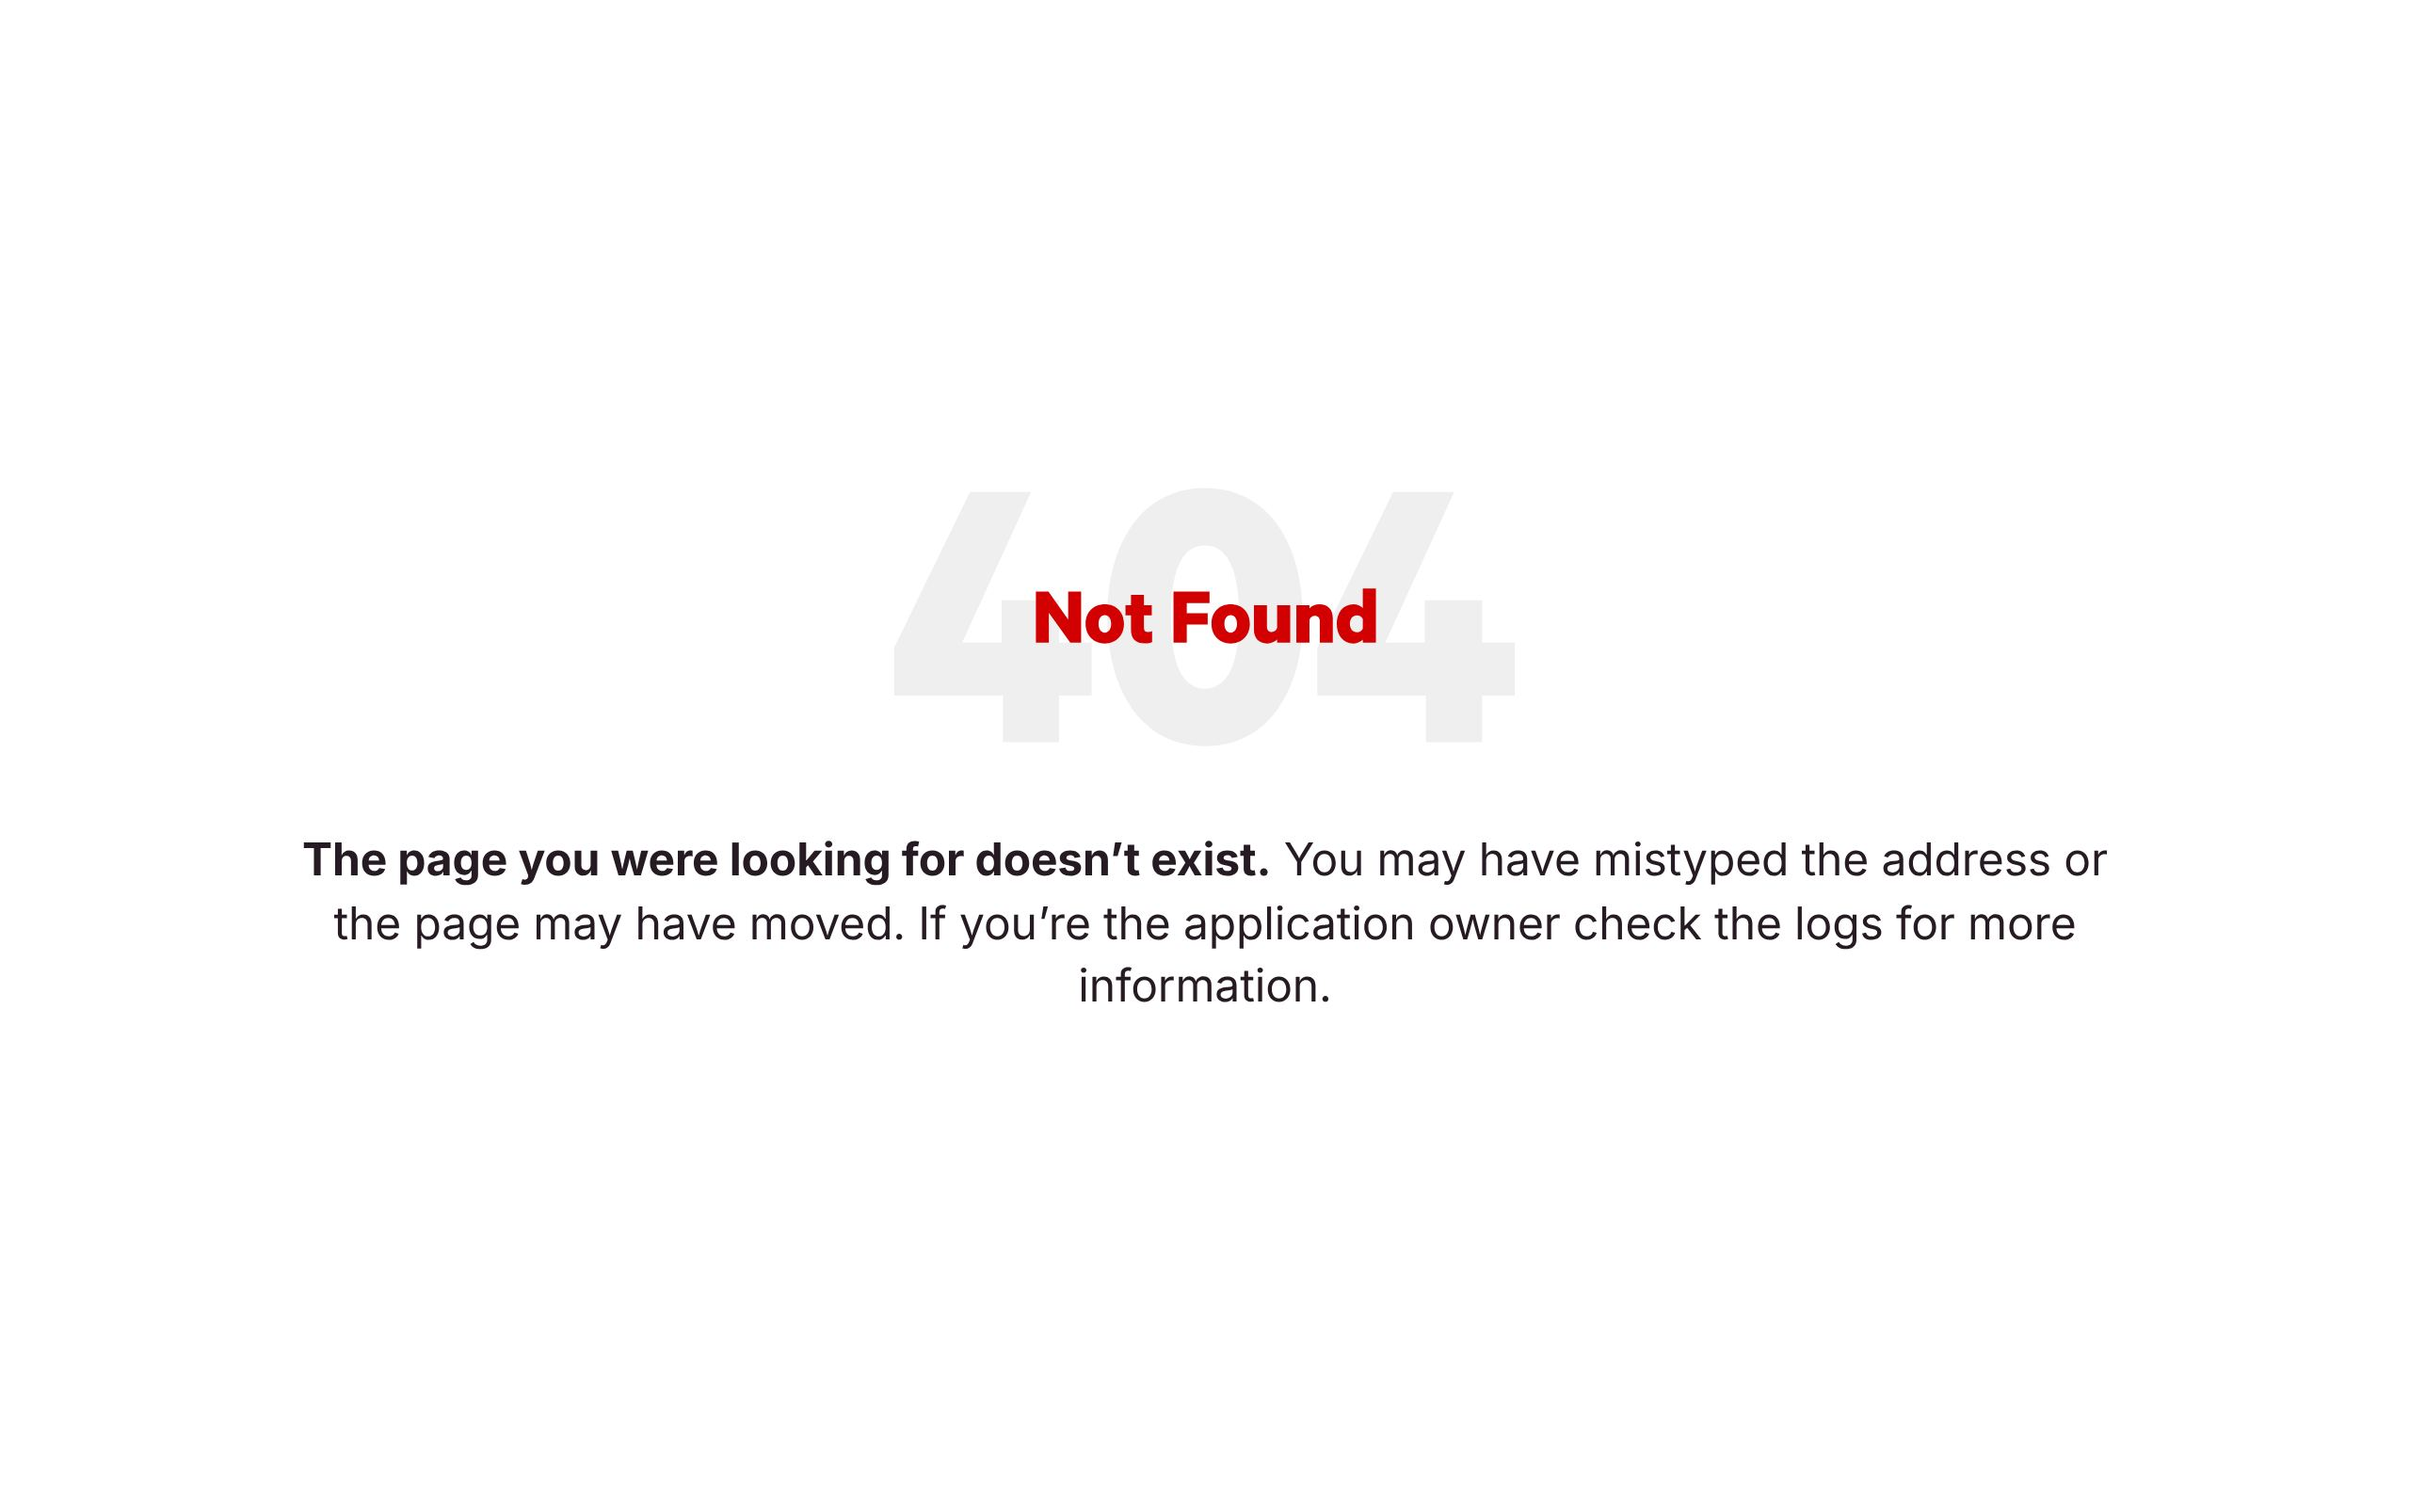
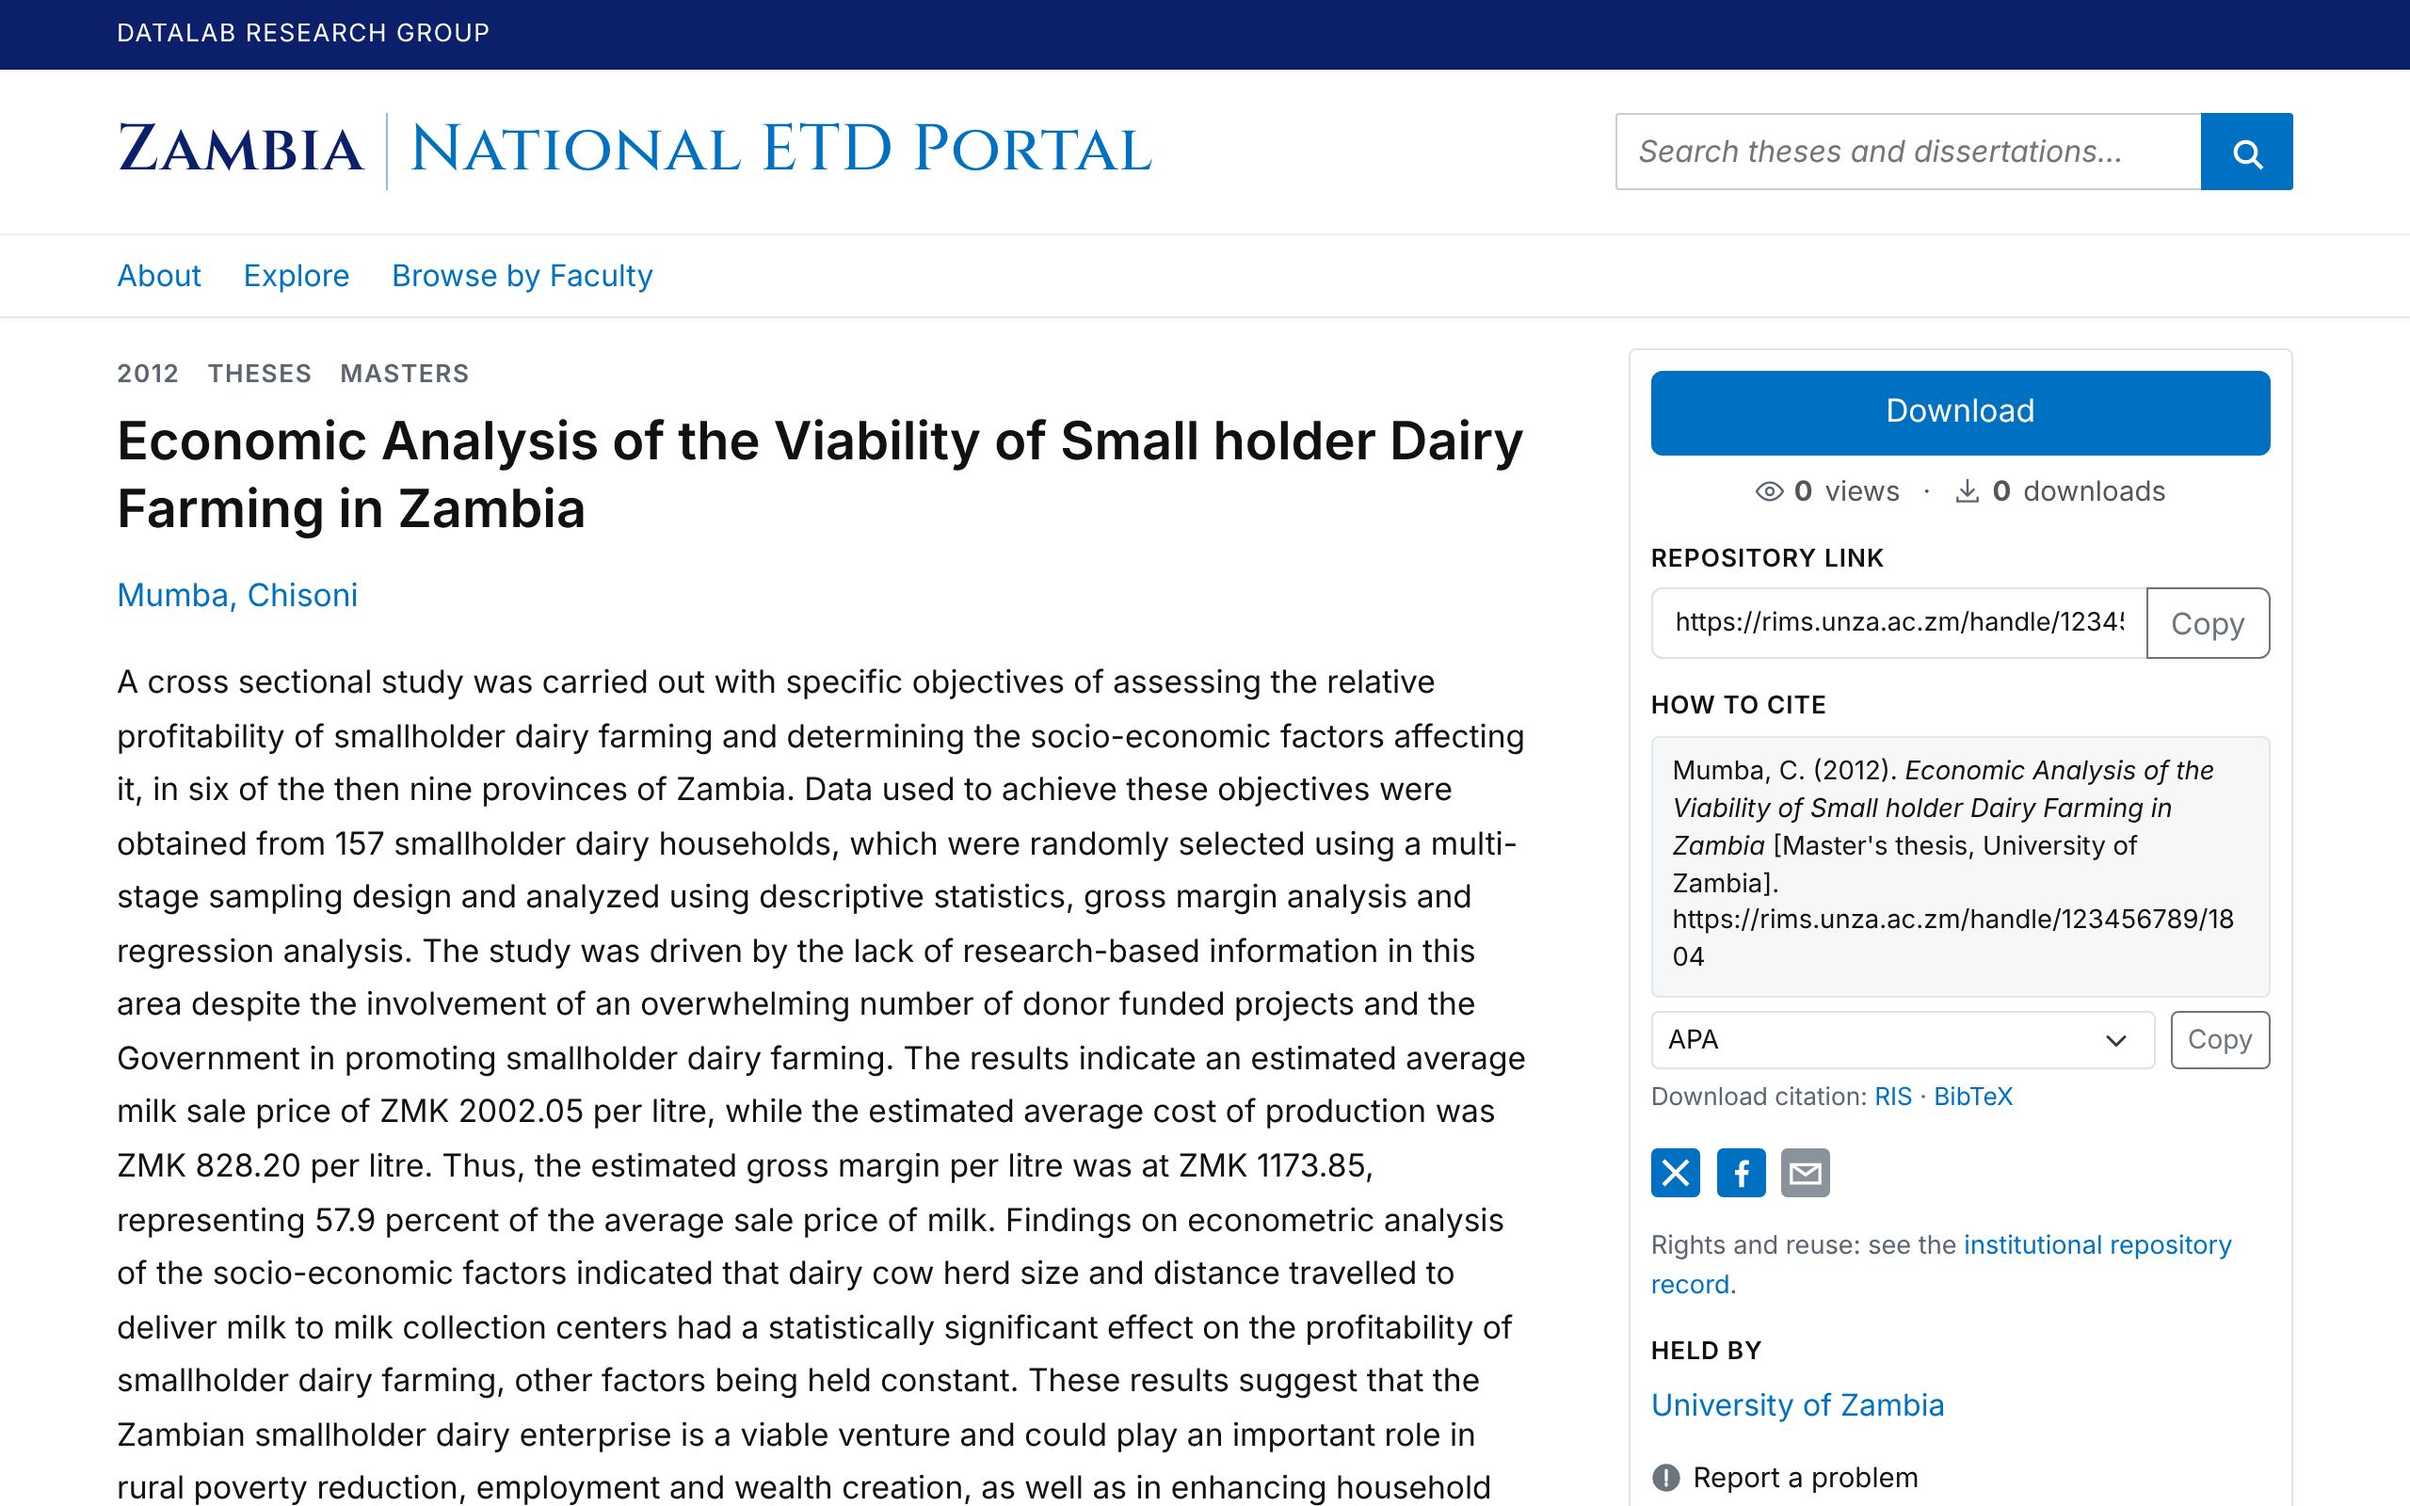
Manual chapters 5 and 10 describe Cited by (search, record page, REST API 1.7.0, OAI-PMH) with new record-page screenshots; backlog, changelog and paper plan record the P3b release 644412a (post-paper)

diff --git a/docs/manual/10-interfaces.md b/docs/manual/10-interfaces.md
@@ -8,7 +8,7 @@ Base address `/api/v1`. Read-only JSON, no authentication, CORS open. The contra
 
 | Endpoint | What |
 |---|---|
-| `GET /api/v1/records` | search: `q`, filters (institution, degree level, year range, field of study, and more), `page`, `per_page` (up to 10,000 results in all) |
+| `GET /api/v1/records` | search: `q`, filters (institution, degree level, year range, field of study, `cited=true` or `false`, and more), `sort` (`relevance`, `newest`, `cited` and others), `page`, `per_page` (up to 10,000 results in all) |
 | `GET /api/v1/records/{id}` | one record (full id, or the short id of its page address) |
 | `GET /api/v1/institutions` | every institution expected, with record counts, harvest status and last run |
 | `GET /api/v1/stats` | counts by institution, level and year, and completeness per field (cached 10 minutes) |
@@ -18,7 +18,7 @@ Base address `/api/v1`. Read-only JSON, no authentication, CORS open. The contra
 curl -s 'https://netd.ac.zm/api/v1/records?q=malaria&per_page=5' | python3 -m json.tool
 ```
 
-Each record has stable public field names (`title`, `authors`, `supervisors`, `degree`, `degree_level`, `institution {id, name}`, `fields_of_study`, `links {portal, source, pdf, api}`, `files`, `duplicate_of`, `other_copies`, `updated_at`) and a `derived` list naming every value the portal filled in, with its method and confidence. Lists are always arrays; missing single values are `null`.
+Each record has stable public field names (`title`, `authors`, `supervisors`, `degree`, `degree_level`, `institution {id, name}`, `fields_of_study`, `links {portal, source, pdf, api}`, `files`, `duplicate_of`, `other_copies`, `openalex_id`, `cited_by {count, works}`, `updated_at`) and a `derived` list naming every value the portal filled in, with its method and confidence. Lists are always arrays; missing single values are `null`. `cited_by.count` is `null` when the thesis has not been matched in OpenAlex (not yet checked, or no confident match) and 0 when it was matched and nobody cites it; each citing work has `openalex_id`, `title`, `year`, `type` and `url`. The CSV export ends with the columns `openalex_id` and `cited_by_count` (API 1.7.0).
 
 **Limits:** 120 requests a minute per address, 20 an hour for the export. Errors: 400 with a message for bad parameters, 404, 503 when the index is unavailable.
 
@@ -32,8 +32,8 @@ Base address `/oai` (OAI-PMH 2.0), for aggregators such as NDLTD's Global ETD Se
 |---|---|
 | Verbs | all six, GET or POST |
 | Formats | `oai_dc`; `etdms` (ETD-MS v1.1, supervisors as `contributor role="advisor"`, `degree` with name, level, discipline and grantor) |
-| Sets | `inst:<source id>` per institution; `level:masters`, `level:doctoral` |
-| Identifiers | `oai:<host>:<record id>` |
+| Sets | `inst:<source id>` per institution; `level:masters`, `level:doctoral`, `level:postgraduate-diploma` |
+| Identifiers | `oai:<host>:<record id>`; in the records, `dc:identifier` (oai_dc) and `identifier` (ETD-MS) list the portal page, the repository page, the PDF and, when matched, the thesis in OpenAlex (`https://openalex.org/W…`) |
 | Datestamps | when the record's content last changed in the portal (seconds granularity), so incremental harvesting only returns real changes |
 | Paging | 100 records per page; stateless resumption tokens valid 24 hours |
 | Deleted records | `transient` |

diff --git a/docs/manual/05-using.md b/docs/manual/05-using.md
@@ -14,9 +14,9 @@ Type words in the search box and press Enter. The menu next to the box limits th
 
 ![Search results](img/results.jpg)
 
-Each result shows the title, the authors, a line with **year · degree · institution**, up to three lines of the abstract, and the keywords (or, when the repository gave none, the portal's field of study in italics). A **Download PDF** link appears when the repository gives a direct link to the full text.
+Each result shows the title, the authors, a line with **year · degree · institution**, up to three lines of the abstract, and the keywords (or, when the repository gave none, the portal's field of study in italics). A **Download PDF** link appears when the repository gives a direct link to the full text, and **Cited by N** when works in OpenAlex cite the thesis (it leads to the record page's Cited by section).
 
-- **Sort by:** Best Match, Published Latest, Published Earliest, Title A-Z, Title Z-A, Newest Additions.
+- **Sort by:** Best Match, Published Latest, Published Earliest, Title A-Z, Title Z-A, Newest Additions, Most Cited (most citing works in OpenAlex first).
 - **Show:** 10, 20, 50 or 100 results per page.
 - **Duplicates:** a thesis deposited more than once is listed once, under its main record.
 
@@ -28,6 +28,7 @@ The left-hand column narrows the results. Choose a value to filter; choose it ag
 |---|---|
 | Institution | contributing institutions (top 10, "more" for the rest) |
 | Full text | whether a direct full-text link exists |
+| Citations (OpenAlex) | **Cited**: only theses cited by at least one work in OpenAlex |
 | Degree level | Masters, Doctoral, Postgraduate Diploma |
 | Research domain, Field of study, Subfield | the standard OpenAlex Topics classification assigned by the portal to every thesis |
 | Faculty / School, Department | from the repository's collections or the title page; spelling variants merged |
@@ -54,8 +55,10 @@ A record page has the address `/theses/<short id>` (for example `/theses/unza-63
 - **Download PDF** and **Repository link** (the item on the institution's repository), and view and download counts;
 - values the portal filled in itself, marked as derived, with their origin;
 - other copies of the same thesis, if any;
-- **Cited by**: works in OpenAlex that cite the thesis, when there are any (matched weekly; most theses have none);
+- **Cited by**: works in OpenAlex that cite the thesis, with their year, when there are any (in the right-hand column, which can be collapsed; matched weekly; most theses have none);
 - **How to cite** (below), **Similar theses** (five theses with similar titles and abstracts, a section that can be collapsed), a Google Scholar link, and **Report a problem** (a short form; reports go to the portal team).
+
+![Cited by on a record page](img/record-cited-by.jpg)
 
 ## 5.6 How to cite
 

diff --git a/docs/BACKLOG.md b/docs/BACKLOG.md
@@ -45,7 +45,8 @@ Items that change an evaluated component (text extraction, OCR, models, the over
 
 | Date | Item | Commit |
 |---|---|---|
-| November 5, 2026 | Country configuration, second part (packaging P3b, NFR-15): country, regulator, wordmark, credits and portal name in page text, Blacklight name, OAI-PMH `Identify`, RIS, citation capitals from `config/country.yml`; Zambian pages unchanged (post-paper) | this release |
+| November 5, 2026 | Manual: Cited by in chapters 5 (result cards, Most Cited sort, Citations filter, new record-page screenshots) and 10 (API 1.7.0 fields, filter, sort and CSV columns; OpenAlex identifier and the postgraduate-diploma set in OAI-PMH) | this release |
+| November 5, 2026 | Country configuration, second part (packaging P3b, NFR-15): country, regulator, wordmark, credits and portal name in page text, Blacklight name, OAI-PMH `Identify`, RIS, citation capitals from `config/country.yml`; Zambian pages unchanged (post-paper) | 644412a |
 | November 5, 2026 | OAI-PMH set `level:postgraduate-diploma` answered HTTP 500 (two-word level unquoted in the Solr filter); `tests/oai_conformance.py` expected the search count (5,474 distinct theses) instead of every record (5,719) | de053e0 |
 | November 5, 2026 | GitHub Pages switched on for `gh-pages` (manual at https://lightonphiri.github.io/code-datalab26-netd_aggregator/); GitHub releases `v0.1.0` to `v0.9.0` created from the CHANGELOG text, in the built-in browser signed in by Lighton | settings |
 | November 4, 2026 | Country configuration, first part (packaging P3a, NFR-15): `config/country.yml` read by portal, harvester and deployment scripts; host, contacts, senders, time zone, portal name in mail and reports; pages unchanged (post-paper) | 544fb81 |

diff --git a/docs/PAPER-PLAN.md b/docs/PAPER-PLAN.md
@@ -345,6 +345,10 @@ Nothing in this session changes an evaluated component (text extraction, OCR, mo
 - The citation list of words kept capitalised was split into a general part (continents, directions, diseases, international bodies, Roman numerals) and the installation's part (21 Zambian places, institutions and bodies); the merged list equals the old one (46 words).
 - Blacklight's application name moved from a YAML locale file to a Ruby locale file reading the configuration; emptying the YAML key instead would have merged an empty `blacklight:` over the gem's own translations.
 - The boot test in a scratch copy of the portal (22 pages and responses compared with the running portal) found two traps of the test itself, not of the release: a tar that contains a harvester file turns the copy's `harvester` link into a folder, and the copy shares nothing but keeps its own Rails file cache, so a first failed run is served again for 10 minutes; clear `tmp/cache` before re-running.
+- Released as 644412a (deployed); after it, captures of 12 pages, OAI-PMH and REST responses and screenshots matched those before (For Institutions in white space only; the home page differed only by Turbo's progress-bar style, injected depending on load timing); `tests/api_conformance.py` 0 problems; `tests/oai_conformance.py` 48 checks, 0 problems.
+
+### Documentation
+- Manual chapters 5 and 10 now describe Cited by (FR-69, maintenance track): result cards, the Most Cited sort and Citations filter, the record page (new screenshots), the API 1.7.0 fields and the OpenAlex identifier in OAI-PMH.
 
 ## Technical record from session 14 (November 4, 2026, documentation and packaging track; post-paper)
 

diff --git a/CHANGELOG.md b/CHANGELOG.md
@@ -19,6 +19,7 @@ Post-paper changes.
 - `LICENSE` (BSD 3-Clause), `NOTICE` (third-party material), `CONTRIBUTING.md`, `SECURITY.md`.
 
 ### Changed
+- Manual chapters 5 and 10 describe Cited by (search, record page, REST API 1.7.0, OAI-PMH); new record-page screenshots.
 - The site probe's recovery e-mail now says since when the portal was down (it read the outage start after deleting the file that held it).
 - Record pages at `/theses/<short id>` (the DSpace default handle prefix dropped, e.g. `/theses/zcas-298`), with permanent redirects from `/catalog/<id>`; REST API 1.6.0 accepts the short id (FR-68, SRS 0.37, SDD 0.36; maintenance track).
 
